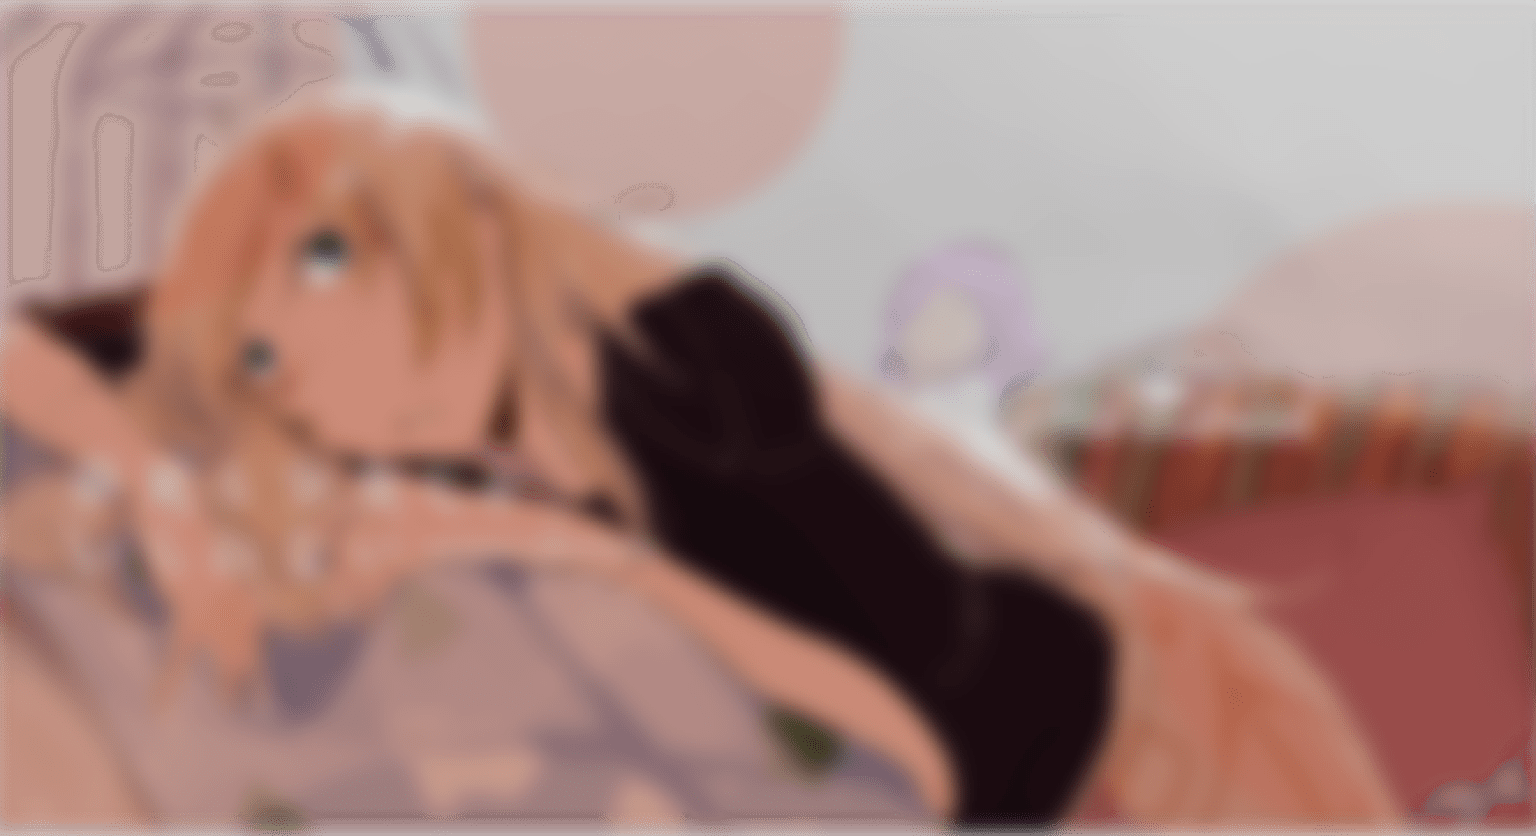
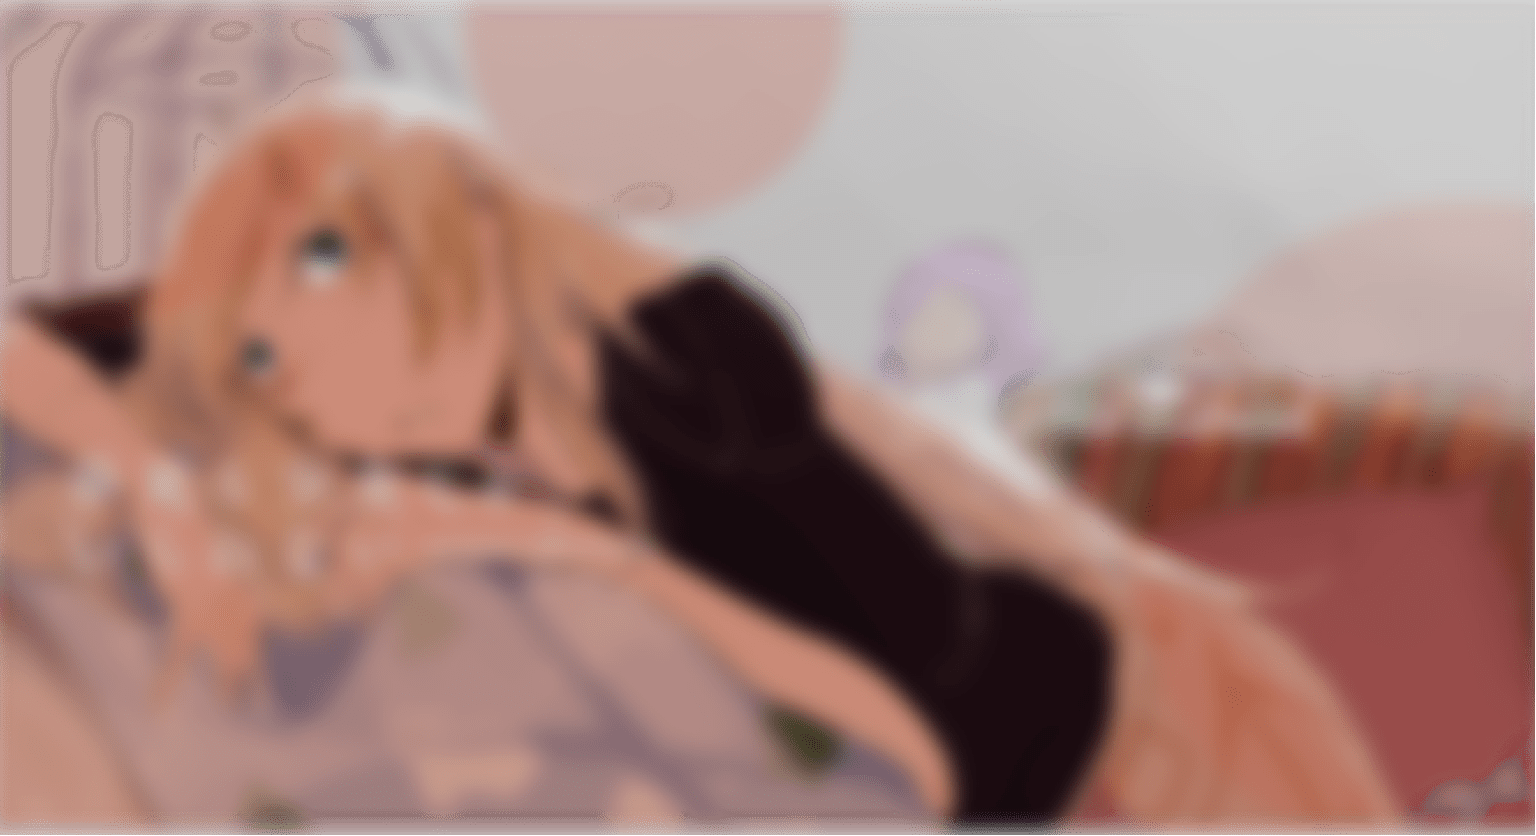
hero image のぼかしぶぶんが半透明になってたのを直した

diff --git a/public/css/main.css b/public/css/main.css
@@ -176,6 +176,7 @@ body {
   position: relative;
   color: #3a373b;
   overflow-x: hidden;
+  background-color: #fcf5e3;
 }
 h1 {
   font-size: 1.8rem;
